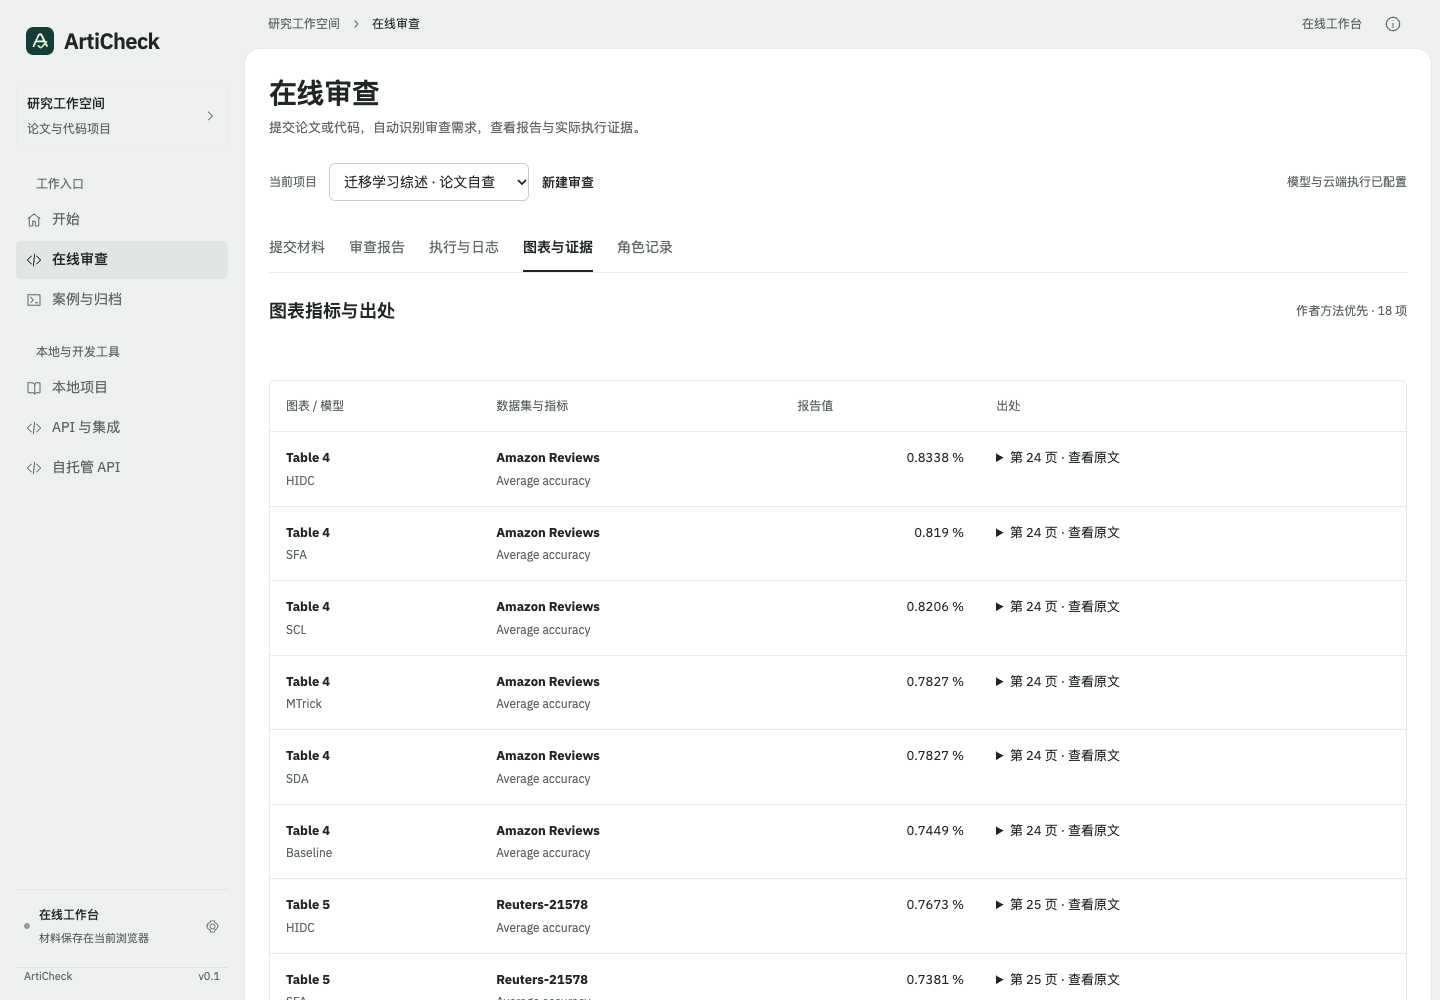
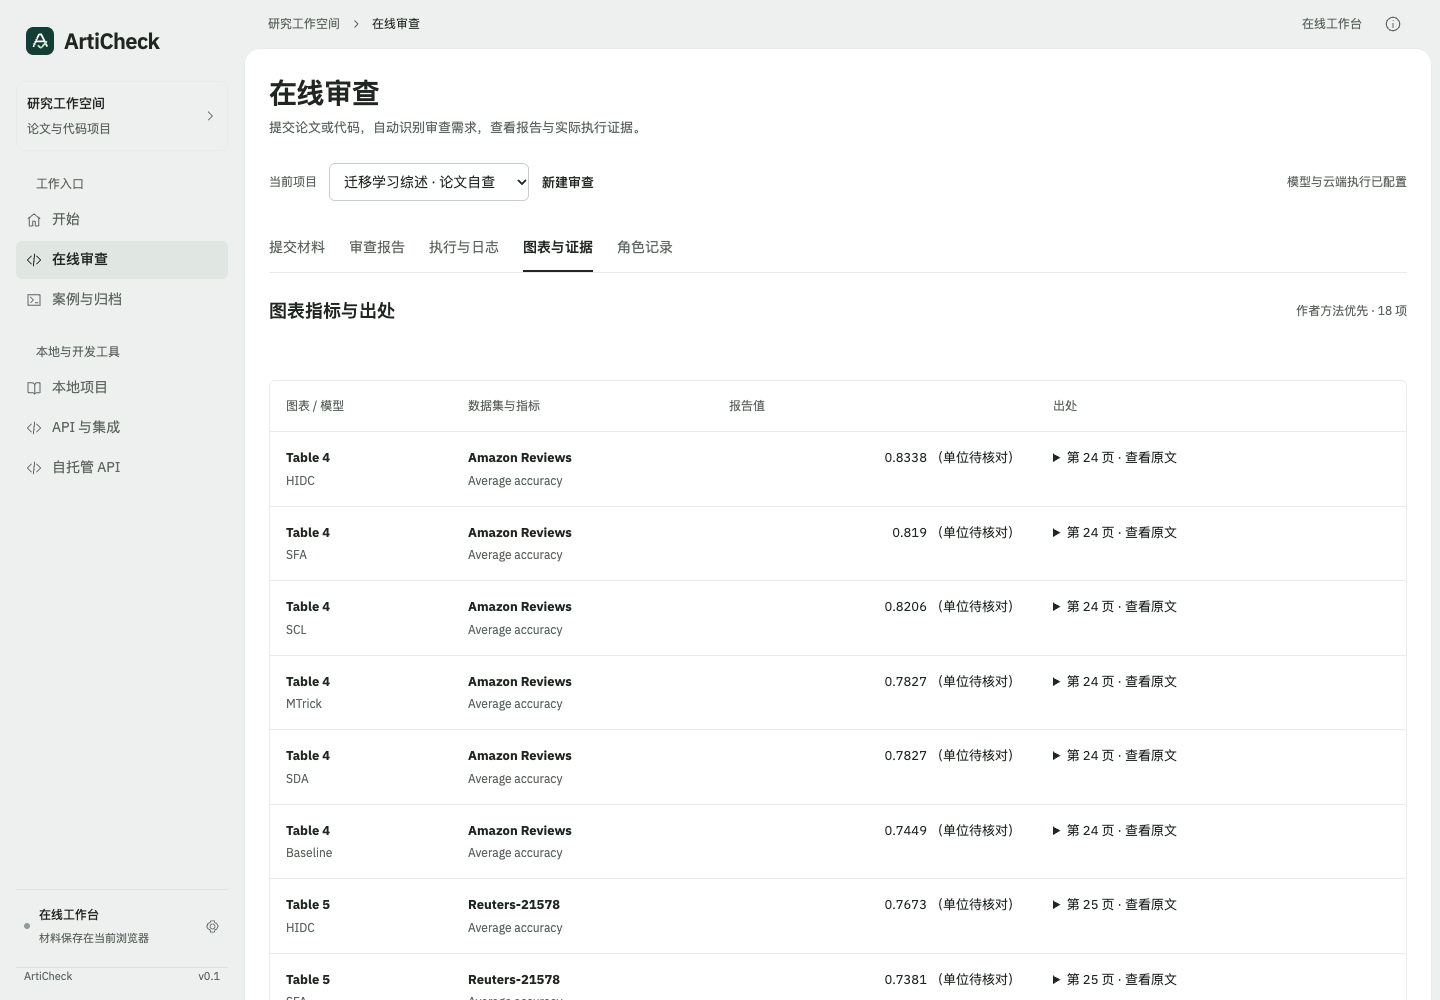
Preserve decimal ratios and require evidence for percentage units

diff --git a/tests/test_hosted_review.py b/tests/test_hosted_review.py
@@ -104,6 +104,24 @@ class Budget:
 
 
 class HostedReviewTests(unittest.TestCase):
+    def test_decimal_ratio_with_unsubstantiated_percent_is_not_an_acceptance_target(self):
+        context,_=prepare_assessment(materials())
+        context['paper_excerpts']=[{'page':1,'text':'Table 1. Ours 0.8338'}]
+        answer=output(context)
+        answer['metrics']=[{'id':'M1','reference':'Table 1','page':1,'quote':'Ours 0.8338',
+            'value':0.8338,'unit':'%','metric':'accuracy','model':'Ours','dataset':'test'}]
+        answer['plan']['metric_patterns']=[{'metric_id':'M1','stage_id':'S1','pattern':'acc: ([0-9.]+)','tolerance':0.01}]
+        result=validate_assessment(answer,context)
+        self.assertEqual(result['metrics'][0]['value'],0.8338)
+        self.assertEqual(result['metrics'][0]['unit'],'')
+        self.assertTrue(result['metrics'][0]['unit_uncertain'])
+        self.assertEqual(result['plan']['metric_patterns'],[])
+        context['paper_excerpts'][0]['text']='Table 1. Ours 0.8338 %'
+        answer['metrics'][0]['quote']='Ours 0.8338 %'
+        result=validate_assessment(answer,context)
+        self.assertEqual(result['metrics'][0]['unit'],'%')
+        self.assertEqual(len(result['plan']['metric_patterns']),1)
+
     def test_valid_blank_pdf_is_not_rejected_as_corrupt(self):
         from pypdf import PdfWriter
         writer=PdfWriter();writer.add_blank_page(612,792);buffer=io.BytesIO();writer.write(buffer)
@@ -209,10 +227,10 @@ class HostedReviewTests(unittest.TestCase):
         context['paper_excerpts']=[{'page':1,'text':'Table 1. baseline 0.7 baseline+++ 0.9'}]
         report=assess(Reviewer(),context,'')
         report['review']['findings']=[{'title':'103层疑点','detail':'待核对','suggestion':'对照排版','severity':'high','page':1,'file':None}]
-        report['review']['metrics']=[{'id':'M1','reference':'Table 1','page':1,'dataset':'test','metric':'mAP','unit':'%',
+        report['review']['metrics']=[{'id':'M1','reference':'Table 1','page':1,'dataset':'test','metric':'mAP','unit':'',
              'protocol':'','model':'baseline','author_method':True,'quote':'baseline 0.7','value':0.7}]
         answer={'reviews':[{'index':0,'decision':'remove','reason':'10³ 为数量级表述，不是 103 层。'}],
-            'additional_tables':[{'reference':'Table 1','page':1,'dataset':'test','metric_prefix':'AP','unit':'%','protocol':'',
+            'additional_tables':[{'reference':'Table 1','page':1,'dataset':'test','metric_prefix':'AP','unit':'','protocol':'',
                 'columns':['mAP'],'rows':[{'model':'baseline','author_method':True,'values':[0.7],'quote':'baseline 0.7'},
                                         {'model':'baseline+++','author_method':True,'values':[0.9],'quote':'baseline+++ 0.9'}]}],
             'visual_notes':[]}

diff --git a/docs/ONLINE_ACCEPTANCE.md b/docs/ONLINE_ACCEPTANCE.md
@@ -1,6 +1,6 @@
 # 在线网站验收
 
-验收日期：2026-11-05（北京时间）。地址：[ArtiCheck 在线审查](https://articheck-workbench.edgeone.dev/#api-review)。最终发布编号：`dp9tqdf54ebk`。CPU 流程记录来自 `dp2ulgg7gl1p`；随后这次发布仅调整报告标题与摘要层级，服务端执行代码保持相同，界面另行复核。
+验收日期：2026-11-05（北京时间）。地址：[ArtiCheck 在线审查](https://articheck-workbench.edgeone.dev/#api-review)。最终发布编号：`dpxj91f8je3w`。CPU 流程记录来自 `dp2ulgg7gl1p`；后续修正了图表单位与报告摘要层级，CPU 执行器未变，线上界面已另行复核。
 
 这份记录验证真实模型 API、网页操作与隔离 CPU 执行。ArtiCheck 后训练权重未参与；材料类型与图表识别的样本结果不能作为总体准确率或完整论文复现成绩。
 
@@ -35,7 +35,7 @@
 | nonpaper-memo | nonpaper / self_review | 1 / 1 页文字、1 页图像 | 0 |
 | blank-document | unknown / self_review | 1 / 1 页文字、1 页图像 | 0 |
 
-“指标候选”指经结构与出处校验后保留的模型读取结果，仍需对照原图，不表示对应实验已运行。分析论文中的诊断实验、含实验的综述和非实验性学术评论分别处理；普通备忘录不生成实验，空白 PDF 保留无法判断。
+“指标候选”指经结构与出处校验后保留的模型读取结果，仍需对照原图，不表示对应实验已运行。小数原值不擅自转换为百分数；单位缺少引用依据时标记“单位待核对”，并排除自动验收匹配。旧报告也应用该显示规则。分析论文中的诊断实验、含实验的综述和非实验性学术评论分别处理；普通备忘录不生成实验，空白 PDF 保留无法判断。
 
 31 页综述首次测试只读取前 10 页，已修复为按全篇页数分配文字预算、优先图表，并读取 24 页原图；复测覆盖后半篇表格。旋转排版的 arXiv 页边标识另行读取，避免失去公开来源线索。
 
@@ -51,8 +51,8 @@
 
 ## 4. 回归与界面检查
 
-- Python：168 项，本地 164 项通过、4 项 Docker 测试跳过；CI 在 Python 3.10–3.12 运行，3.11 另执行 Docker 路径。[CI](https://github.com/Gump111458785/ArtiCheck/actions/workflows/ci.yml)。
-- 前端：103 项通过。
+- Python：169 项，本地 165 项通过、4 项 Docker 测试跳过；CI 在 Python 3.10–3.12 运行，3.11 另执行 Docker 路径。[CI](https://github.com/Gump111458785/ArtiCheck/actions/workflows/ci.yml)。
+- 前端：104 项通过。
 - 真实浏览器：桌面 1440 与 1280 宽度，复核报告、实际日志、证据、角色记录与就地表单校验。
 - Taste 应用界面规则：保留原有字体与绿色体系，问题、建议和状态分层；检查器对 28 px 标题给出通用展示页警告，应用屏幕保留该尺寸。未将这个警告写成“全部检查零警告”。
 

diff --git a/README.md b/README.md
@@ -288,8 +288,8 @@ python -m articheck run --task examples/task.json --output runs/review
 |---|---|---|
 | 公开 CPU 案例 | LIBLINEAR / news20，15 次运行、60 个阶段；L2-SVM 准确率 96.76%，样本标准差 0.31 个百分点 | [案例 CI](https://github.com/Gump111458785/ArtiCheck/actions/runs/41408434563) · [报告](web/dist/samples/liblinear-reproduction.json) |
 | 内置受控缺陷基准 | 单仓库 4 个版本、12 条主张；FixedPlanner + 规则核查：TP=3、FP=0、TN=9、FN=0，宏 F1=1.000，问题召回率 100%，误报率 0% | [原始结果](docs/smoke/metrics.json) · [问题报告](docs/smoke/metric-defect-report.md) |
-| Python 工程测试 | 168 项：本地 164 项通过、4 项 Docker 专项跳过；CI 覆盖 Python 3.10–3.12 | [网站与回归验收](docs/ONLINE_ACCEPTANCE.md) · [历史验证记录](docs/VALIDATION.md) · [CI](https://github.com/Gump111458785/ArtiCheck/actions/workflows/ci.yml) |
-| 前端测试 | 97 项通过，覆盖完整实验角色事件、API 接入、演示评测、开始页、材料、验收、资源、执行中心和审查状态 | [测试代码](tests/frontend/) · [CI](https://github.com/Gump111458785/ArtiCheck/actions/workflows/ci.yml) |
+| Python 工程测试 | 169 项：本地 165 项通过、4 项 Docker 专项跳过；CI 覆盖 Python 3.10–3.12 | [网站与回归验收](docs/ONLINE_ACCEPTANCE.md) · [历史验证记录](docs/VALIDATION.md) · [CI](https://github.com/Gump111458785/ArtiCheck/actions/workflows/ci.yml) |
+| 前端测试 | 104 项通过，覆盖完整实验角色事件、API 接入、演示评测、开始页、材料、验收、资源、执行中心和审查状态 | [测试代码](tests/frontend/) · [CI](https://github.com/Gump111458785/ArtiCheck/actions/workflows/ci.yml) |
 
 内置基准的阈值为 0.5，包含正例 3 条、负例 9 条。这组结果仅验证工程链路，不能外推到真实论文或独立仓库。ArtiCheck-Claims、CORE-Bench、JudgeEval 评测 [待完成]；[评测协议与公平对照要求](docs/BENCHMARKS.md)。
 

diff --git a/docs/ONLINE_WORKBENCH.md b/docs/ONLINE_WORKBENCH.md
@@ -20,7 +20,7 @@
 | 请求体 | 5 MB，包含 JSON 与 base64；原始 PDF 与 ZIP 合计建议不超过约 3.5 MB |
 | 代码来源 | 固定 GitHub 提交的源码 ZIP，或用户导入的 ZIP；目录指纹不能代替源码 |
 | 模型上下文 | 论文文字总计 90 KB，按全篇页数分配，优先保留各页图表；代码节选 60 KB，先读取说明、依赖和根目录源码。页面图像最多 24 页，优先标题页与图表页，最长边 1600 像素 |
-| 指标 | 图表编号、页码、逐字引用与数值须能对应；作者方法优先。实际页面图片参与模型阅读；印刷数字与曲线估计分别记录。曲线估计不作为精确验收目标；首轮最多 200 项，复核补读后最多 400 项，未覆盖项明确记录 |
+| 指标 | 图表编号、页码、逐字引用与数值须能对应；作者方法优先。小数比例不擅自添加百分号；单位不确定的指标保留原值，并排除自动数值验收。实际页面图片参与模型阅读；印刷数字与曲线估计分别记录。曲线估计不作为精确验收目标；首轮最多 200 项，复核补读后最多 400 项，未覆盖项明确记录 |
 | 论文类型 | 实验研究、诊断/分析、综述、非论文、未知；不适用条件单独标记 |
 | 执行 | CPU；选填 30–600 秒，默认 300 秒；实例另留最多 60 秒准备时间，到期销毁 |
 | 进程限制 | 默认实例 2 vCPU、512 MB 内存；独立无 sudo 用户，最多 64 个进程、3 GiB 进程地址空间上限、单文件 128 MiB；数值库线程限制为 2。地址空间上限不代表实例有 3 GiB 物理内存 |
